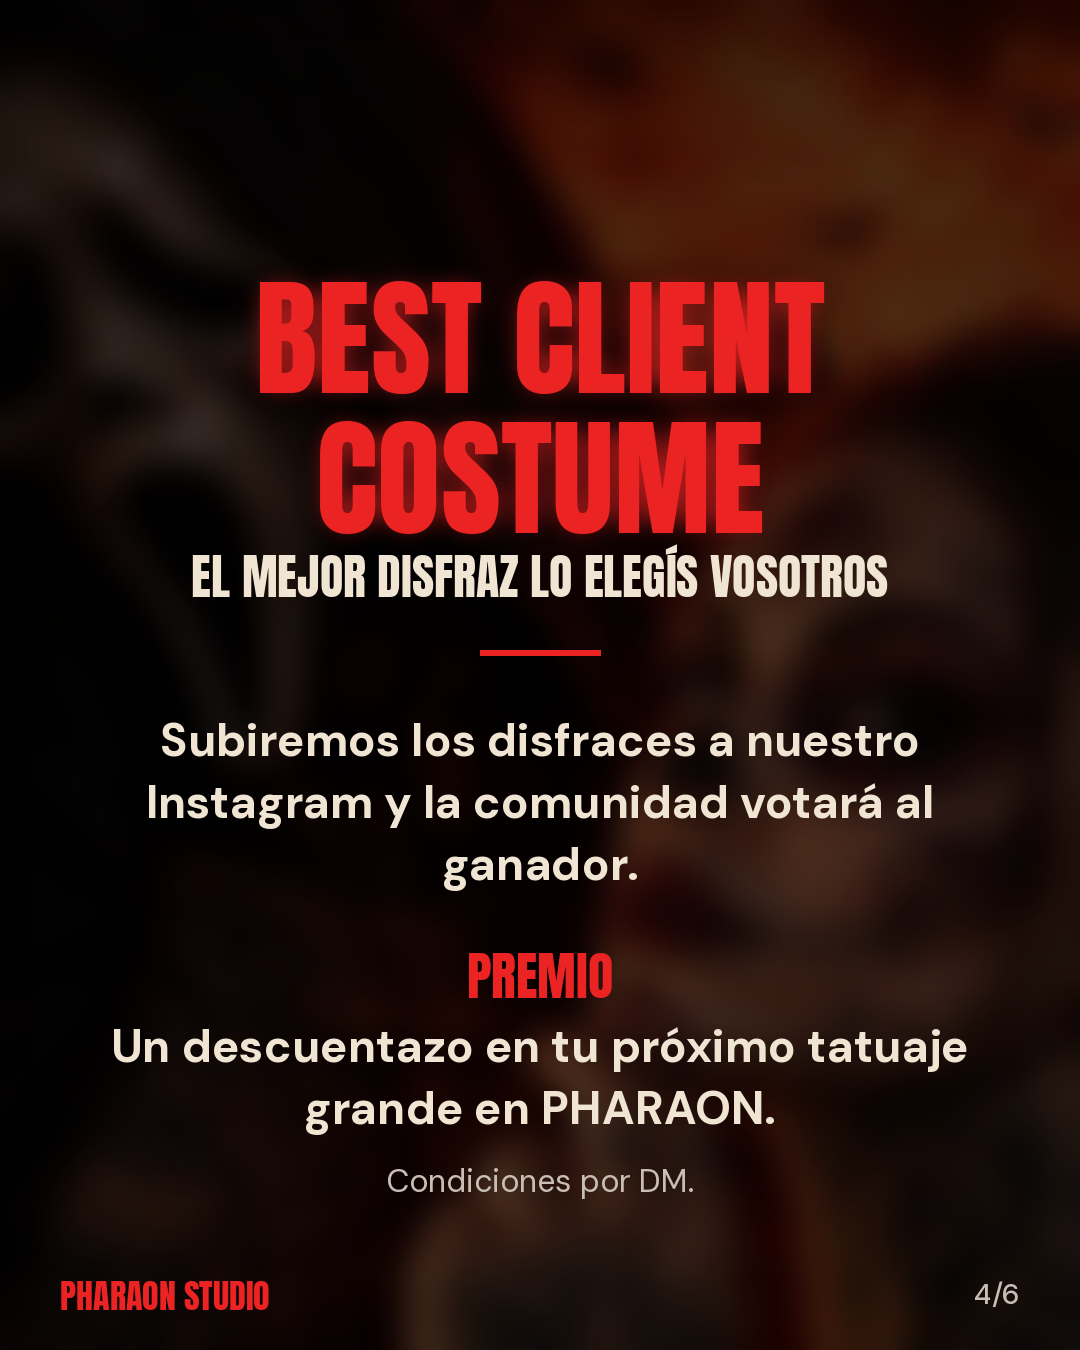
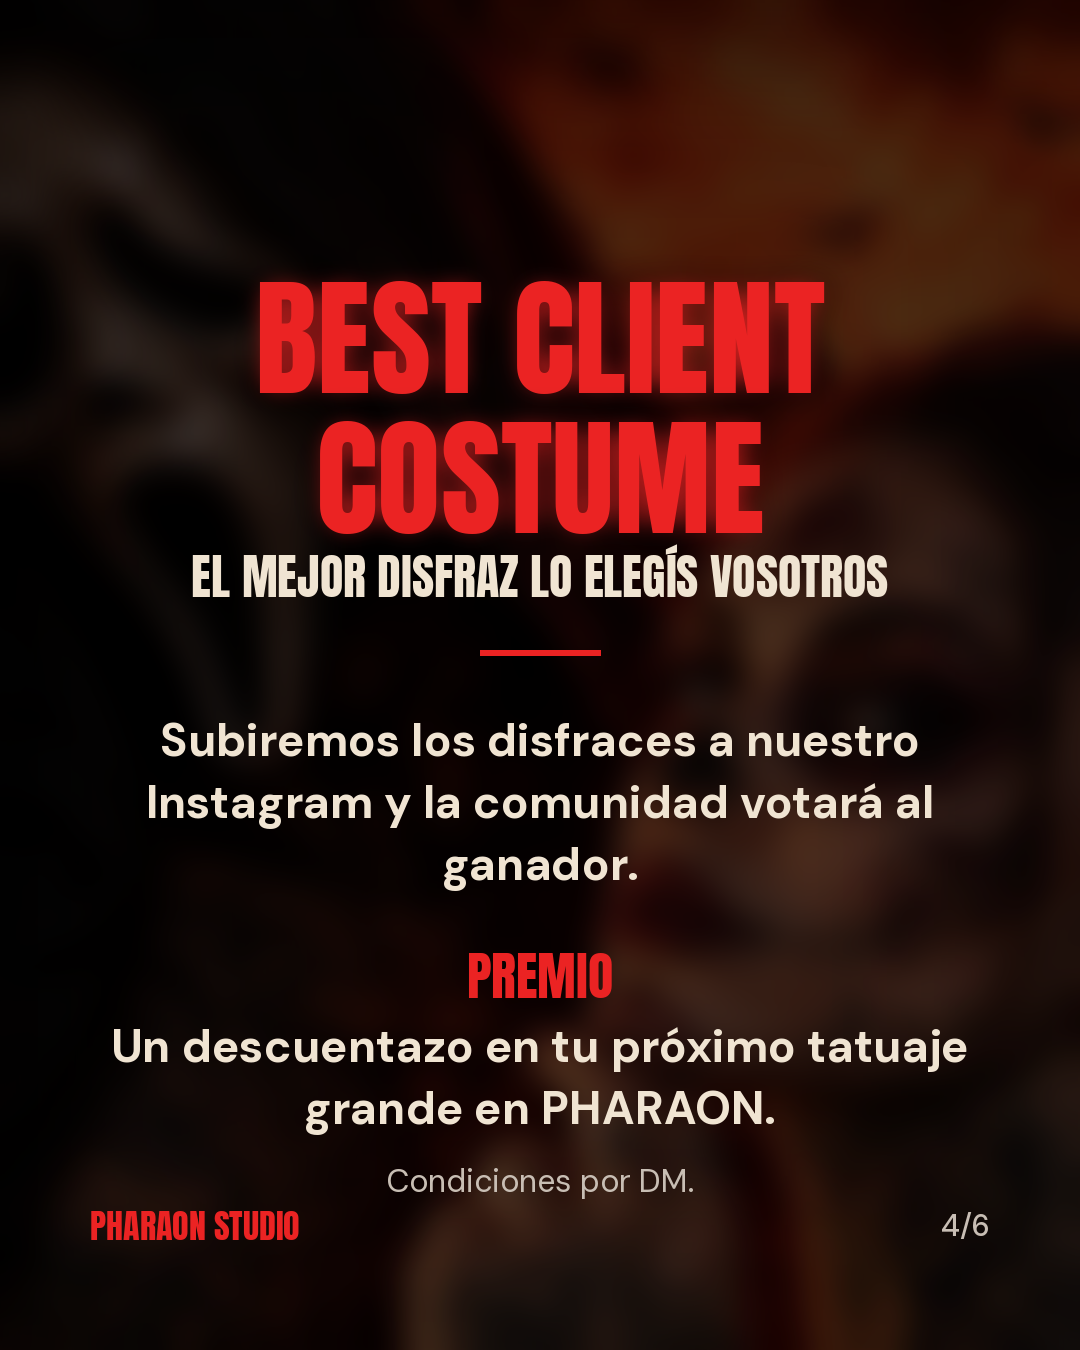
Carrusel Halloween: firma y contador con más margen para que no se corten
Claude-Session: https://claude.ai/code/session_017Rsphfz7JrN2HBs3pyC4Qn

Changed region(s): [[0.0611, 0.8711, 0.275, 0.9956], [0.9167, 0.9333, 0.9472, 0.9644], [0.8861, 0.9022, 0.9167, 0.9333]]

diff --git a/posts/halloween-2026/generar.py b/posts/halloween-2026/generar.py
@@ -37,8 +37,9 @@ def parrafo(d,y,txt,f,col,ancho=880,inter=1.35):
         d.text(((W-d.textlength(l,font=f))/2,y),l,font=f,fill=col); y+=int(f.size*inter)
     return y
 def firma(d,n):
-    f=font('Anton-Regular.ttf',34); d.text((60,H-80),'PHARAON STUDIO',font=f,fill=ROJO)
-    f2=font('DMSans-500.ttf',28); t=f'{n}/6'; d.text((W-60-d.textlength(t,font=f2),H-74),t,font=f2,fill=GRIS)
+    # margen amplio abajo y a los lados: en el móvil Instagram tapa/recorta los bordes
+    f=font('Anton-Regular.ttf',34); d.text((90,H-150),'PHARAON STUDIO',font=f,fill=ROJO)
+    f2=font('DMSans-500.ttf',30); t=f'{n}/6'; d.text((W-90-d.textlength(t,font=f2),H-144),t,font=f2,fill=GRIS)
 def titulo(img,y,lineas,size=128):
     d=ImageDraw.Draw(img); f=font('Anton-Regular.ttf',size)
     for l in lineas:
